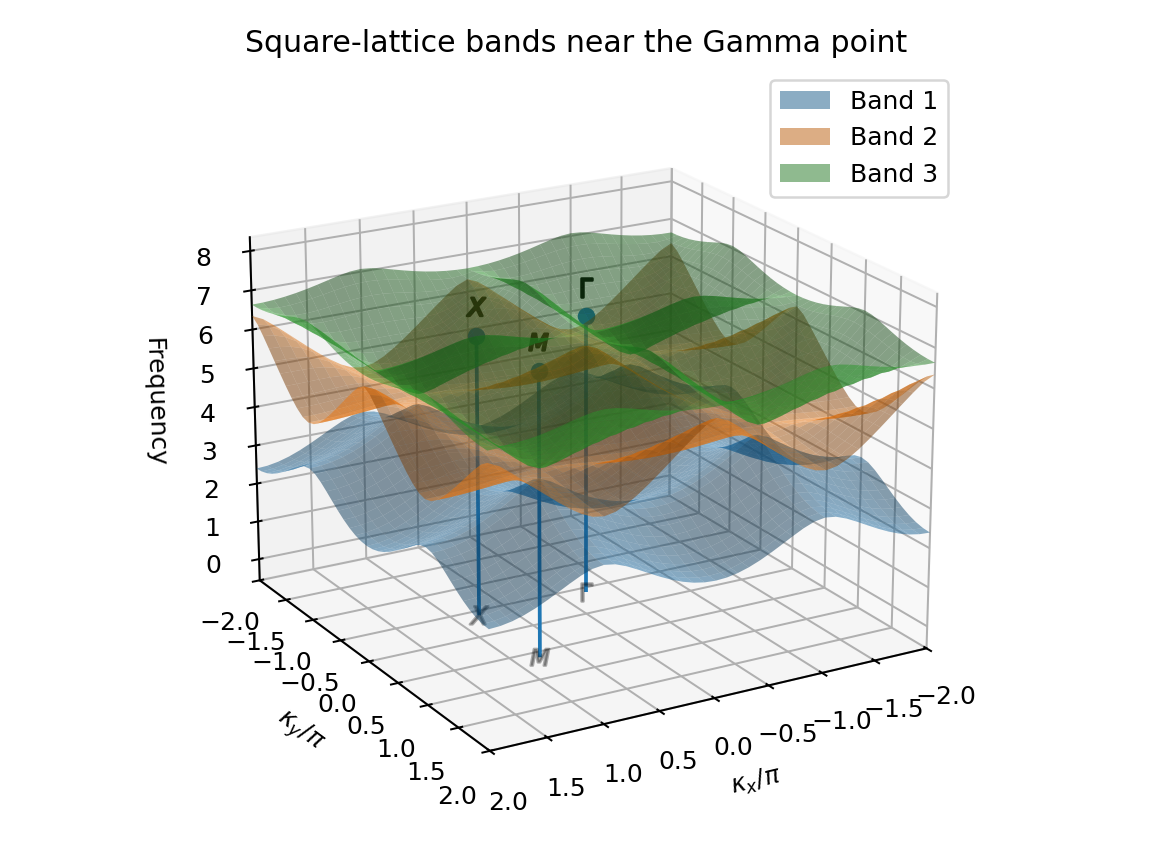
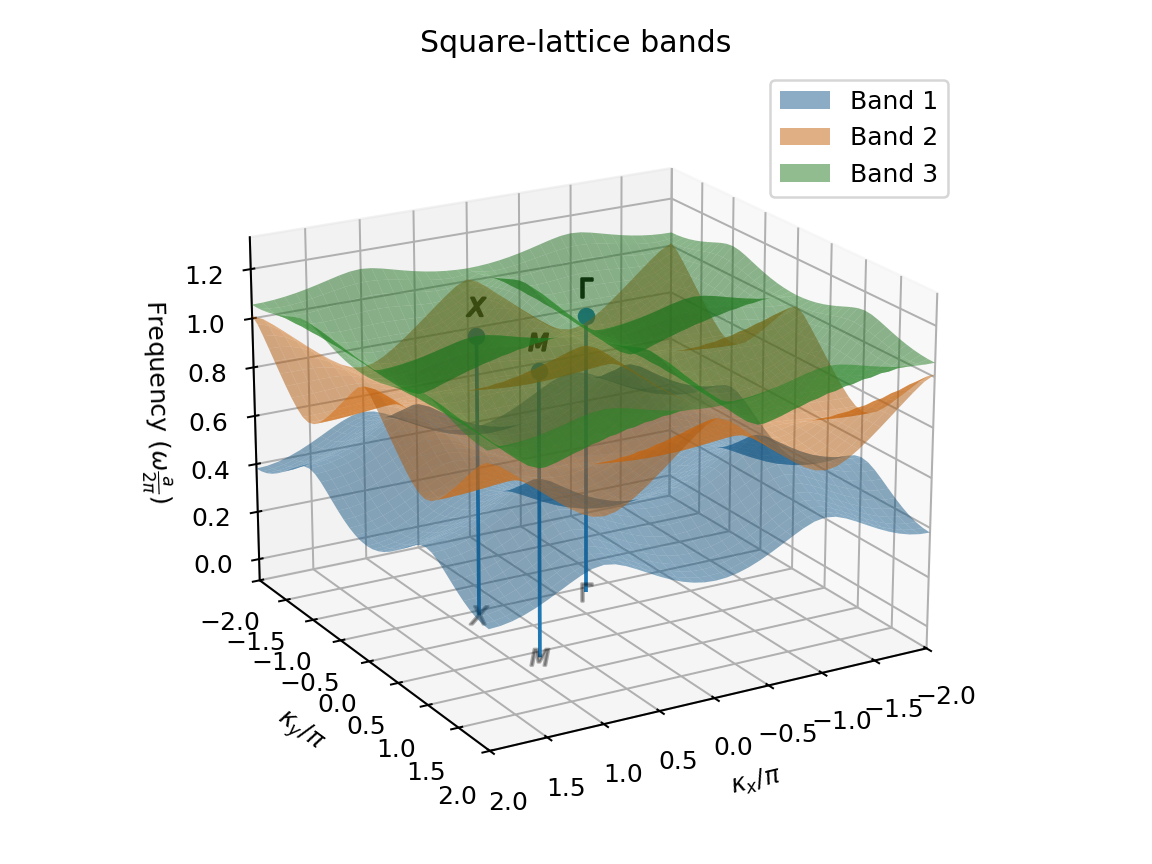
Added Cupy functionality to speed up calculations for GPU compatible devices and fixed some runtime errors involving bands list

diff --git a/Translated Code/matlab_translation/main.py b/Translated Code/matlab_translation/main.py
@@ -5,9 +5,13 @@ import matplotlib
 # matplotlib.use("Agg")
 matplotlib.use("QtAgg")
 import matplotlib.pyplot as plt
+import cupy as cp #Cupy
 import numpy as np
 from scipy.linalg import eigh
-from scipy.sparse.linalg import eigsh
+from scipy.sparse.linalg import eigsh as scipy_eigsh
+from cupyx.scipy.sparse import csr_matrix as cupy_csr_matrix
+from cupyx.scipy.sparse.linalg import eigsh as cupy_eigsh
+
 
 ROOT = Path(__file__).resolve().parent
 if str(ROOT) not in sys.path:
@@ -43,10 +47,13 @@ def _assemble_cell(lat_c=1.0, mesh_size=0.02, PEC_radius=0.1):
     return M, Mx, My, Me
 
 
-def _lowest_characteristic_values(matrices, kappa, n_omega):
+def _lowest_characteristic_values_numpy(matrices, kappa, n_omega):
     M, Mx, My, Me = matrices
+
     operator = M - 2.0j * (kappa[0] * Mx + kappa[1] * My)
     operator = operator + np.dot(kappa, kappa) * Me
+
+    
     if n_omega >= operator.shape[0]:
         raise ValueError("n_omega must be smaller than the number of FEM equations.")
 
@@ -59,7 +66,7 @@ def _lowest_characteristic_values(matrices, kappa, n_omega):
             subset_by_index=(0, n_omega - 1),
         )
     else:
-        eigenvalues = eigsh(
+        eigenvalues = scipy_eigsh(
             operator,
             k=n_omega,
             M=Me,
@@ -75,6 +82,49 @@ def _lowest_characteristic_values(matrices, kappa, n_omega):
         raise ArithmeticError("The FEM system produced negative eigenvalues.")
     eigenvalues = np.maximum(eigenvalues, 0.0)
     return np.sort(eigenvalues)
+
+
+def _lowest_characteristic_values_cupy(matrices, kappa, n_omega):
+    """Compute characteristic values using CuPy and the GPU eigensolver."""
+    M, Mx, My, Me = matrices
+    M_gpu = cupy_csr_matrix(M)
+    Mx_gpu = cupy_csr_matrix(Mx)
+    My_gpu = cupy_csr_matrix(My)
+    Me_gpu = cupy_csr_matrix(Me)
+    kappa_gpu = cp.asarray(kappa)
+
+    operator_gpu = (
+        M_gpu
+        - 2.0j * (kappa_gpu[0] * Mx_gpu + kappa_gpu[1] * My_gpu)
+        + cp.dot(kappa_gpu, kappa_gpu) * Me_gpu
+    )
+    if n_omega >= operator_gpu.shape[0] - 1:
+        raise ValueError(
+            "The CuPy sparse eigensolver requires n_omega < matrix size - 1."
+        )
+
+    eigenvalues_gpu = cupy_eigsh(
+        operator_gpu,
+        k=n_omega,
+        M=Me_gpu,
+        sigma=0.0,
+        which="LM",
+        return_eigenvectors=False,
+    )
+    eigenvalues = cp.asnumpy(eigenvalues_gpu)
+    eigenvalues = np.real_if_close(eigenvalues, tol=1000)
+    if np.iscomplexobj(eigenvalues):
+        raise ArithmeticError("The FEM eigenvalues are not real within numerical tolerance.")
+    eigenvalues = np.real(eigenvalues)
+    if np.any(eigenvalues < -1e-10):
+        raise ArithmeticError("The FEM system produced negative eigenvalues.")
+    return np.sort(np.maximum(eigenvalues, 0.0))
+
+
+def _lowest_characteristic_values(matrices, kappa, n_omega):
+    # Comment out one line and uncomment the other to switch backends.
+     return _lowest_characteristic_values_numpy(matrices, kappa, n_omega)
+    #return _lowest_characteristic_values_cupy(matrices, kappa, n_omega)
 
 
 def _lowest_eigenfrequencies(matrices, kappa, n_omega):
@@ -495,7 +545,8 @@ def _plot_lattice_point_bands(
         )
 
     point = estimate["kappa_center"]
-    values_at_m = estimate["characteristic_values"][bands]
+    values_at_m = np.array(estimate["characteristic_values"])[bands]
+    # values_at_m = estimate["characteristic_values"]
     ax.scatter(
         [point[0] / np.pi],
         [point[1] / np.pi],
@@ -505,7 +556,8 @@ def _plot_lattice_point_bands(
         s=55,
         label="M point",
     )
-    slopes = estimate["directional_gap_slopes"][bands]
+    slopes = np.array(estimate["directional_gap_slopes"])[bands]
+    #slopes = estimate["directional_gap_slopes"]
     slope_text = "\n".join(
         f"{direction}: {slope:.4g}"
         for direction, slope in slopes.items()
@@ -516,7 +568,7 @@ def _plot_lattice_point_bands(
         (
             f"At {point_label}: " + r"$\lambda_1$" + f"={values_at_m[0]:.6g}, "
             r"$\lambda_2$" + f"={values_at_m[1]:.6g}\n"
-            f"Direct gap={[f'{gap:.4g}' for gap in estimate['direct_gap'][bands]]}\n"
+            f"Direct gap={[f'{gap:.4g}' for gap in np.array(estimate['direct_gap'])[bands]]}\n"
             f"Mean near-M gap slope={estimate['mean_gap_slope']:.4g}\n"
             f"Directional slopes (d gap / d|k|):\n{slope_text}"
         ),
@@ -730,8 +782,8 @@ def main():
 
     # Band path: 100 samples on each of the path segments,
     # with the lowest 7 bands computed at every Bloch vector.
-    path_type = "TX'M'T"  # or "MXTxM" or "TXMT"
-    path_samples = 100
+    path_type =  "TX'M'T"  # or "MXTxM" or "TXMT"
+    path_samples = 200
     path_band_count = 7
     omega, _ = _solve_band_structure(
         matrices, lat_c, path_samples, path_band_count, path_type

diff --git a/Translated Code/matlab_translation/plot_lattice_point.py b/Translated Code/matlab_translation/plot_lattice_point.py
@@ -1,6 +1,7 @@
 from pathlib import Path
 
 import matplotlib.pyplot as plt
+#import cupy as np
 import numpy as np
 
 from main import plot_lattice_point_bands

diff --git a/Translated Code/matlab_translation/Mesh/mesh_generation.py b/Translated Code/matlab_translation/Mesh/mesh_generation.py
@@ -1,3 +1,4 @@
+#import cupy as np
 import numpy as np
 from scipy.spatial import Delaunay
 

diff --git a/Translated Code/matlab_translation/Mesh/meshpoly.py b/Translated Code/matlab_translation/Mesh/meshpoly.py
@@ -1,3 +1,4 @@
+#import cupy as np
 import numpy as np
 from scipy.spatial import Delaunay
 

diff --git a/Translated Code/matlab_translation/Finite_Element/FEM_matrices_C4_PEC_TE.py b/Translated Code/matlab_translation/Finite_Element/FEM_matrices_C4_PEC_TE.py
@@ -1,3 +1,4 @@
+#import cupy as np
 import numpy as np
 from scipy import sparse
 
